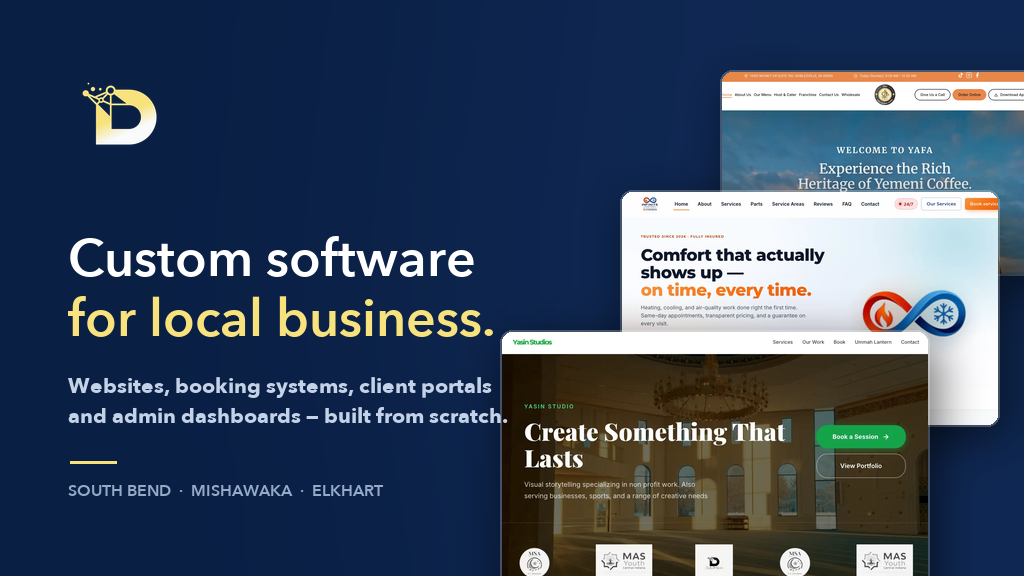
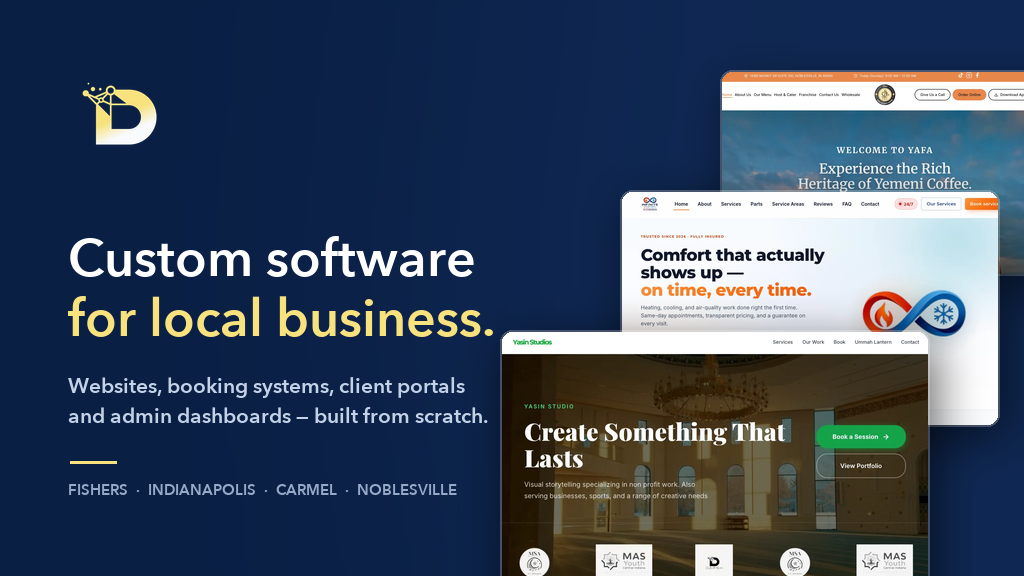
more SEO Stuff

Changed region(s): [[0.0625, 0.6562, 0.5, 0.75], [0.0625, 0.8438, 0.4375, 0.875]]

diff --git a/lib/seo.js b/lib/seo.js
@@ -21,11 +21,19 @@
    ---------------------------------------------------------------------------
    Types we emit, and why:
 
-     Organization  The business entity. Not ProfessionalService /
-                   LocalBusiness: those are LocalBusiness subtypes and are only
-                   honest with a real postal address or a declared service
-                   area, and Darsh has neither in lib/defaults.js, in the CMS
-                   schema, or in any env key. See buildOrganization().
+     Organization  The business entity, ALSO typed ProfessionalService (a
+     + Professional  LocalBusiness subtype). This used to be Organization only,
+       Service       on the grounds that a LocalBusiness subtype is dishonest
+                   without a real address or a declared service area. That
+                   changed: Darsh now has a verified Google Business Profile
+                   declaring a northern-Indiana service area, so the geography
+                   below is corroborated by a source outside this repo rather
+                   than invented to win a rich result. See LOCAL below.
+
+                   Still NO streetAddress. Darsh is a service-area business and
+                   Google hides the address for those; publishing one here
+                   would contradict the Business Profile, and mismatched NAP
+                   data across sources actively hurts local ranking.
      WebSite       Names the site as an entity and ties it to the publisher.
                    No SearchAction — see buildWebSite().
 
@@ -230,6 +238,78 @@ function buildReview(review) {
  * trick. Third-party ratings, if Darsh ever collects them, are the thing that
  * would actually light up stars.
  */
+/* ------------------------------- Local business ---------------------------- */
+
+/**
+ * Where the business actually is, for the local-search half of SEO.
+ *
+ * WHY THIS EXISTS AT ALL. Before this, the rendered homepage contained the
+ * string "Indiana" zero times, no phone number, and no geography of any kind in
+ * its structured data. The Business Profile claimed a northern-Indiana service
+ * area and the website corroborated none of it, so the two strongest local
+ * signals Google has were not reinforcing each other.
+ *
+ * EVERY VALUE IS OVERRIDABLE BY ENV so this file never becomes the only place a
+ * business fact lives. Set any of them to an empty string to drop that field
+ * entirely — `compact()` strips empties, so an unset value emits nothing rather
+ * than an empty node.
+ *
+ * The defaults are the values on the live Google Business Profile. Keep them in
+ * sync with it: Google cross-checks name/address/phone between a site and its
+ * profile, and a disagreement is worse than silence on both.
+ *
+ * PROFILE_URL is derived from the profile's own CID (the review short-link
+ * resolves to place data 0x...:0x9b2bb84cef349105, and 0x9b2bb84cef349105 is
+ * 11181233140447613189 in decimal). Listing it in sameAs is what explicitly
+ * ties this website to that profile.
+ */
+const LOCAL = {
+  telephone: envOr('BUSINESS_PHONE', '+1-574-347-1217'),
+  locality: envOr('BUSINESS_CITY', 'Fishers'),
+  region: envOr('BUSINESS_REGION', 'IN'),
+  country: envOr('BUSINESS_COUNTRY', 'US'),
+  profileUrl: envOr('GOOGLE_MAPS_PROFILE_URL', 'https://maps.google.com/?cid=11181233140447613189'),
+  /*
+   * Semicolon-separated so one env var carries the whole list.
+   *
+   * These four are the EXACT cities on the Business Profile — Indianapolis
+   * metro, not northern Indiana. No county entries: the profile does not
+   * declare any, and inventing broader coverage here than the profile claims
+   * is precisely the mismatch this file warns about above.
+   *
+   * Corroborated by the client work: Yafa is in Noblesville and Big Birdz is
+   * on Allisonville Rd in Indianapolis.
+   */
+  areas: envOr(
+    'BUSINESS_AREAS',
+    'Fishers, IN; Indianapolis, IN; Carmel, IN; Noblesville, IN',
+  ),
+};
+
+/** An env value if set (even to ''), otherwise the fallback. */
+function envOr(key, fallback) {
+  const raw = process.env[key];
+  return raw === undefined ? fallback : raw.trim();
+}
+
+/**
+ * areaServed as schema.org nodes.
+ *
+ * A bare string works, but City / AdministrativeArea is unambiguous — "Elkhart"
+ * alone is both a city and a county here, and typing them apart stops Google
+ * having to guess which one a name means.
+ */
+function buildAreaServed() {
+  return LOCAL.areas
+    .split(';')
+    .map((a) => a.trim())
+    .filter(Boolean)
+    .map((name) => ({
+      '@type': /count(y|ies)$/i.test(name.split(',')[0].trim()) ? 'AdministrativeArea' : 'City',
+      name,
+    }));
+}
+
 export function buildOrganization(ctx) {
   const {
     pageUrl,
@@ -245,8 +325,19 @@ export function buildOrganization(ctx) {
     servicePageSlugs = SERVICE_PAGE_SLUGS,
   } = ctx;
 
+  const areaServed = buildAreaServed();
+
+  // The Business Profile URL belongs in sameAs — that link is what tells Google
+  // this site and that profile are one entity. Deduped: collectSameAs() may
+  // already have picked it up from a footer link.
+  const allSameAs = [...sameAs];
+  if (LOCAL.profileUrl && !allSameAs.includes(LOCAL.profileUrl)) allSameAs.push(LOCAL.profileUrl);
+
   const org = compact({
-    '@type': 'Organization',
+    // Dual-typed. Organization keeps everything that already relied on it;
+    // ProfessionalService is the LocalBusiness subtype that makes the
+    // geography below meaningful to Google.
+    '@type': ['Organization', 'ProfessionalService'],
     '@id': pageUrl + '#organization',
     name: brandName,
     url: pageUrl,
@@ -254,7 +345,18 @@ export function buildOrganization(ctx) {
     image: logoUrl,
     description,
     slogan,
-    sameAs,
+    telephone: LOCAL.telephone,
+    // No streetAddress on purpose — see the header comment.
+    address: LOCAL.locality
+      ? compact({
+          '@type': 'PostalAddress',
+          addressLocality: LOCAL.locality,
+          addressRegion: LOCAL.region,
+          addressCountry: LOCAL.country,
+        })
+      : undefined,
+    areaServed,
+    sameAs: allSameAs,
   });
 
   if (contactEmail) {

diff --git a/lib/defaults.js b/lib/defaults.js
@@ -26,13 +26,32 @@ export const defaults = {
     images: {
       logo: { url: '/images/LogoNav.webp', path: null, width: 500, height: 500 },
     },
+    /*
+     * Order mirrors the physical section order on the home page, so walking the
+     * nav left-to-right walks the page top-to-bottom. Page order is:
+     *   #top (hero) · #services · #why · #process · #work · #reviews · #contact
+     * (#why comes from partials/discover-designs.ejs, included before #process.)
+     * Standalone pages go after the anchors; the Client Portal button is
+     * rendered separately by partials/nav.ejs and is always last.
+     *
+     * "Our clients" points at #reviews — the testimonials section — NOT at
+     * #brands. #brands is the decorative logo marquee *inside* the hero, so
+     * linking to it scrolls the visitor backwards, above Services.
+     *
+     * NOTE: these defaults only apply when the Firestore `websiteContent/nav`
+     * document is absent. lib/content.js#getAllSections does a whole-document
+     * replace (out[d.id] = d.data()), not a merge, so on an installation that
+     * has ever saved the nav from /admin this array is never read. Editing it
+     * does not change a live site — that has to be done in the admin UI.
+     */
     links: [
       { label: 'Services', href: '#services' },
-      { label: 'Our clients', href: '#brands' },
-      { label: 'Process', href: '#process' },
       { label: 'Why Darsh', href: '#why' },
+      { label: 'Process', href: '#process' },
       { label: 'Work', href: '#work' },
+      { label: 'Our clients', href: '#reviews' },
       { label: 'Contact', href: '#contact' },
+      { label: 'Industries', href: '/industries' },
     ],
   },
 
@@ -199,11 +218,15 @@ export const defaults = {
     images: {
       logo: { url: '/images/Logo.webp', path: null, width: 500, height: 500 },
     },
+    /* Same page order as nav.links above. partials/footer.ejs appends an
+       "All services" → /services entry at render time when one is absent. */
     links: [
       { label: 'Services', href: '#services' },
       { label: 'Process', href: '#process' },
       { label: 'Work', href: '#work' },
+      { label: 'Our clients', href: '#reviews' },
       { label: 'Contact', href: '#contact' },
+      { label: 'Industries', href: '/industries' },
       { label: 'Client Portal', href: '/portal/login' },
     ],
   },

diff --git a/public/css/landing.css b/public/css/landing.css
@@ -27,6 +27,14 @@
 
 * { box-sizing: border-box; }
 html { scroll-behavior: smooth; }
+
+/* The nav is position:fixed and settles at 72px tall (.nav.scrolled max-height),
+   so an anchor target scrolled flush to the viewport top lands *underneath* it —
+   the heading you jumped to is hidden and the jump reads as "went nowhere".
+   scroll-padding-top offsets every in-page anchor by the nav height plus a little
+   breathing room. Set on <html> so it applies to the scrolling element itself and
+   therefore covers every #anchor on the site, not just the ones listed here. */
+html { scroll-padding-top: 88px; }
 body {
   margin: 0;
   font-family: "Inter", system-ui, -apple-system, sans-serif;
